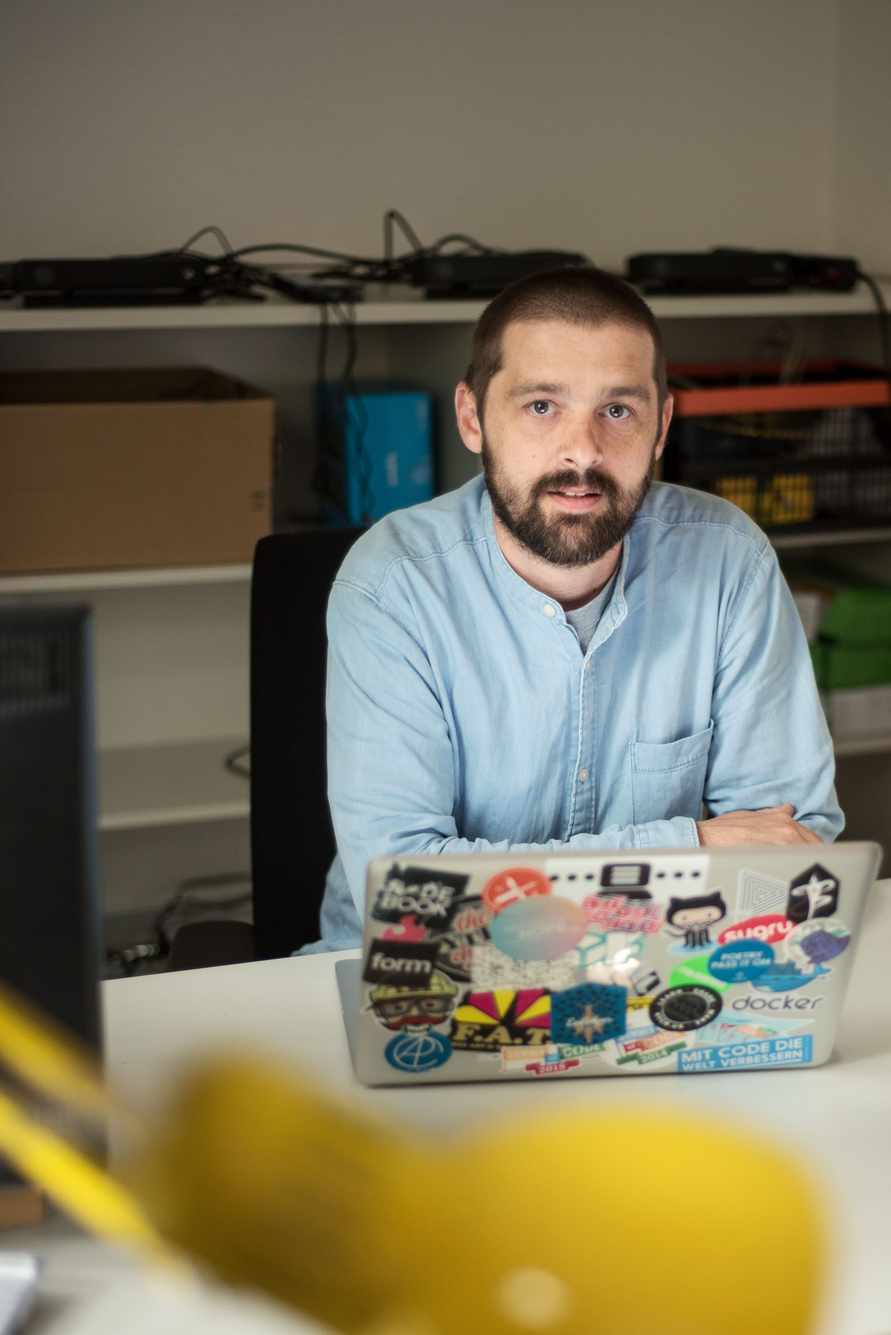
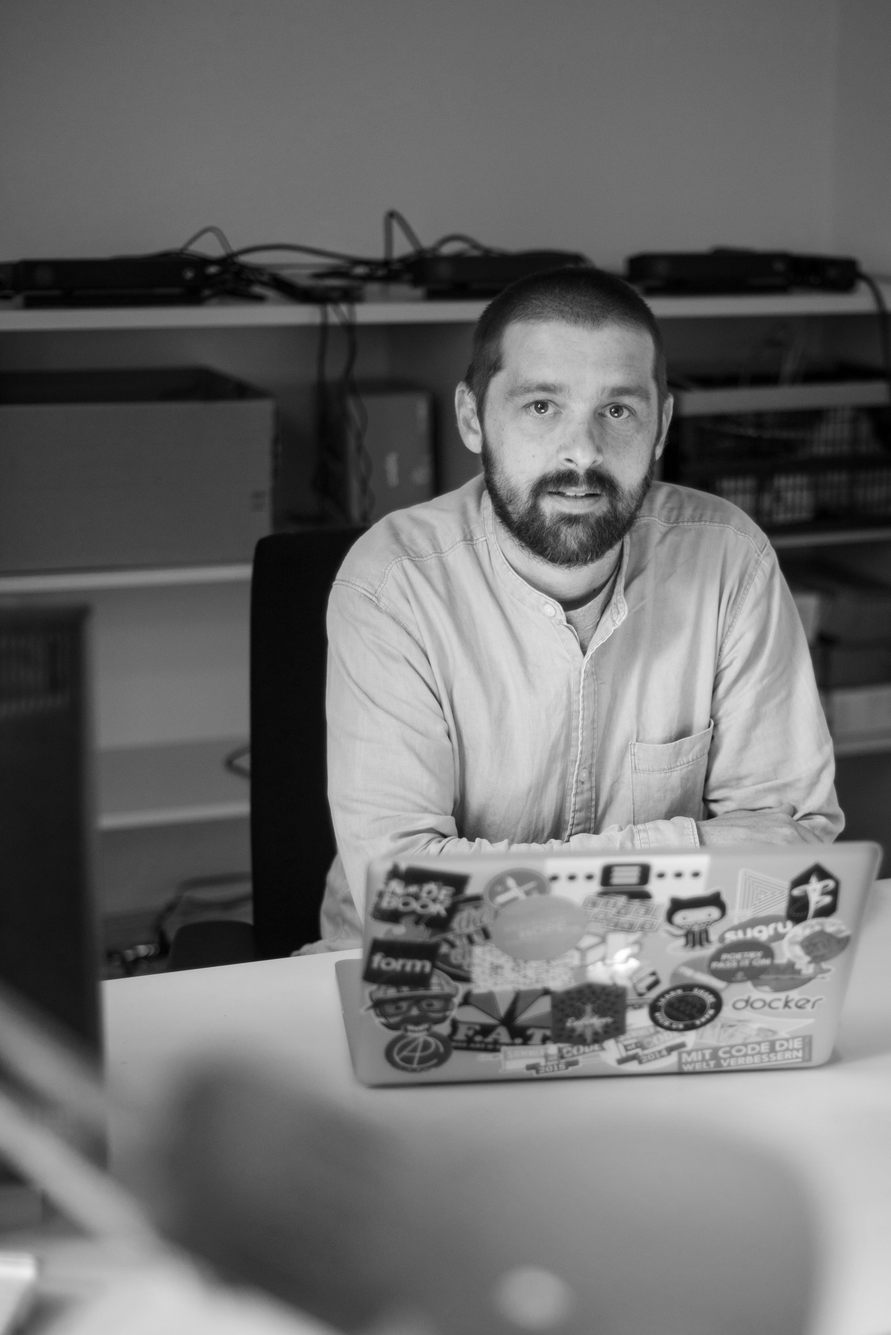
News post award session and back to grayscale jury pics.

diff --git a/news/_posts/2018-12-11-cdv-rm-preisverleihung_2.md b/news/_posts/2018-12-11-cdv-rm-preisverleihung_2.md
@@ -1,0 +1,25 @@
+---
+date: '2018-12-11 10:00'
+author: Anne Klammt
+layout: post
+published: true
+status: publish
+title: 'Preisverleihung Kulturhackathon Coding Da Vinci im Landesmuseum Mainz'
+image:
+    src: '/img/news/2018/cdv_rm_atmo.jpg'
+    alt: Großer Andrang im Landesmuseum Mainz bei der Präsentation der Projekte des Coding Da Vinci Rhein-Main
+    license: '<a href="/img/news/2018/cdv_rm_atmo.jpg" target="_blank">Großer Andrang im Landesmuseum Mainz bei der Präsentation der Projekte des Coding Da Vinci Rhein-Main</a>, <a href="https://creativecommons.org/licenses/by-sa/4.0/deed.de" target="_blank">CC-BY-SA 4.0</a>, Foto: Klaus Weber, Universitätsbibliothek der Johannes Gutenberg-Universität'
+tags:
+    - Coding da Vinci Rhein-Main
+type: post
+---
+<p>
+Am 1. Dezember sind in Mainz die Gewinner des Kulturhackathons „Coding Da Vinci Rhein-Main“ bestimmt worden. Mit einer feierlichen Preisverleihung im Landesmuseum Mainz fand der erste Coding Da Vinci Rhein-Main nach fünf Wochen seinen Abschluss. Insgesamt wurden in fünf Kategorien Open SourceApplikationen ausgezeichnet, mit denen offene Kulturdaten aus Museen, Archiven, Bibliotheken und Sammlungen auf neue Weise zugänglich gemacht werden. Insgesamt haben sich 16 Teams erfolgreich mit einem eigenen Projekt am Hackathon beteiligt.</p>
+<p>Mit digitalen Daten zu mittelalterlichen Monstern, Filmen aus der Zeit des ersten Weltkriegs und historischen Kleidern hat der erste Coding Da Vinci Rhein-Main im Oktober diesen Jahres Hacker, Kreative und Kulturbegeisterte weit über das Rhein-Main-Gebiet hinaus nach Mainz zum Start des fünfwöchigen Kulturhackathons gelockt.</p>
+<p>Am Samstag, 1. Dezember, wurden die Ergebnisse der Teilnehmer präsentiert. Entstanden sind ganz unterschiedliche Projekte, die von allen Team wie immer in ihrer Freizeit entwickelt wurden. Dabei haben gleich zwei Teams Applikationen entwickelt, um historische Kleider aus dem Bestand des Historischen Museums Frankfurt virtuell anprobieren zu können. Ein anderes Team ermöglicht es, dass Alexa, die künstliche Sprachassistentin von Amazon, auf Anfrage aus dem Leben des deutschen Kaisers Friedrich III. berichtet.
+</p>
+<p>Alle 16 Projekte wurden von einer sechsköpfigen Jury renommierter Fachleute aus den Bereichen Informatik, Design, Archivwesen und kreatives Coden beurteilt. Vergeben wurden Preise für fünf Kategorien, die unter anderem Kreativität und technische Umsetzung gewichtet haben. In gleich zwei Kategorien wurde hierbei die WebApp “<a href="https://antlitz.ninja/" target="_blank">Antlitzninja</a>”, die Bilder remixt, ausgezeichnet. Das Publikums-Voting in der Kategorie “everbodys darling” endete sogar mit zwei Siegern, nämlich den Webanwendungen “<a href="https://www.artific.app" target="_blank">artificApp</a>” von Malgorzata und Piotr Cabaj und “<a href="https://monstermelodies.netlify.com/#/" target="_blank">Monstermelodies</a>” von Anett Gesierich und Felix Werthschulte.
+<p>Gerahmt wurde die Preisverleihung durch einen Vortrag des österreichischen Archivars Mag. Thomas Just, der provokant fragte „Hacken Sie schon oder archivieren Sie noch?“. In seiner Rede machte er ganz im Geiste von Goding da Vinci die Bedeutung nicht allein der Öffnung sondern auch der Nutzung digitaler Daten aus Archiven, Museen, Bibliotheken und Sammlungen deutlich. Und auch aus der Politik kamen dazu einige Worte: Für Staatssekretär Prof. Dr. Salvatore Barbaro ist diese Öffnung kultureller Einrichtungen und ihrer Daten ein zentrales Anliegen der Digitalstrategie Rheinland-Pfalz und Coding Da Vinci eine gute Möglichkeit ist, um die Potenziale offener Kulturdaten spielerisch zu erproben. Alle Projekte können wie immer frei genutzt und weiterentwickelt werden. Eine Übersicht der Projekte und der verwendeten Daten sind im <a href="/projects/2018_rm/ANTLITZ.NINJA.html">Projektportal</a> zu finden.
+</p>
+<p>Und so geht Coding da Vinci Rhein-Main zuende. Aber Fans wissen bereits, "nach Coding da Vinci" ist auch immer "vor Coding da Vinci", denn die nächste Regionalausgabe steht ja mit <a href="/events/sued">Coding da Vinci Süd</a> schon in den Startlöchern. Auf geht es also nach München!
+</p>
